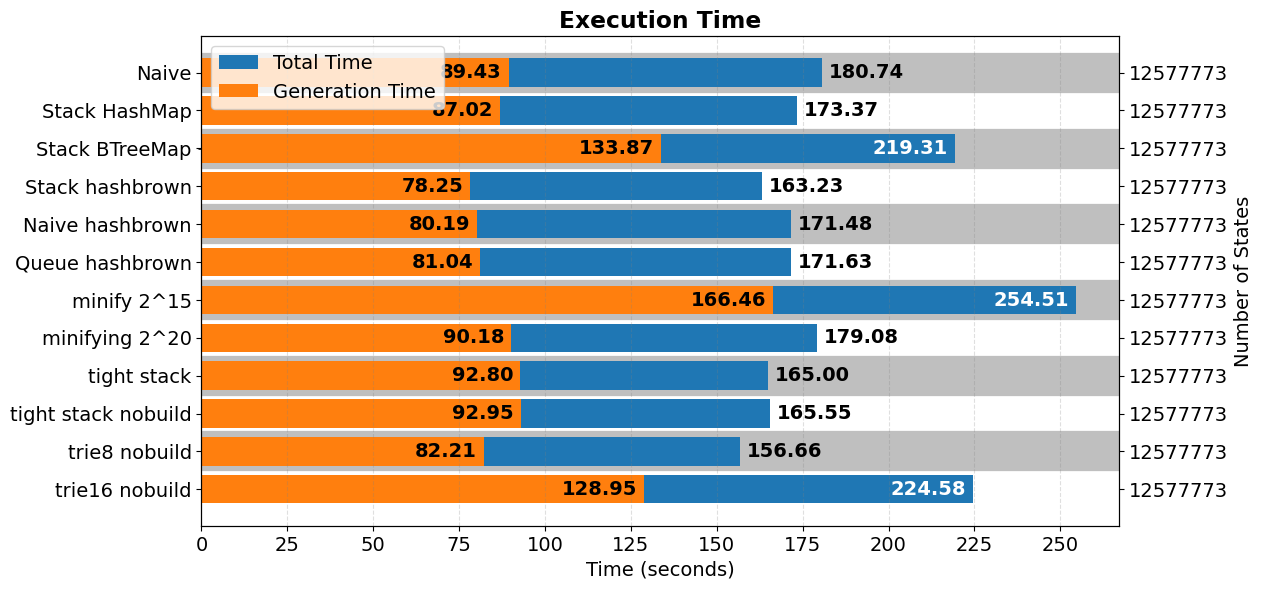
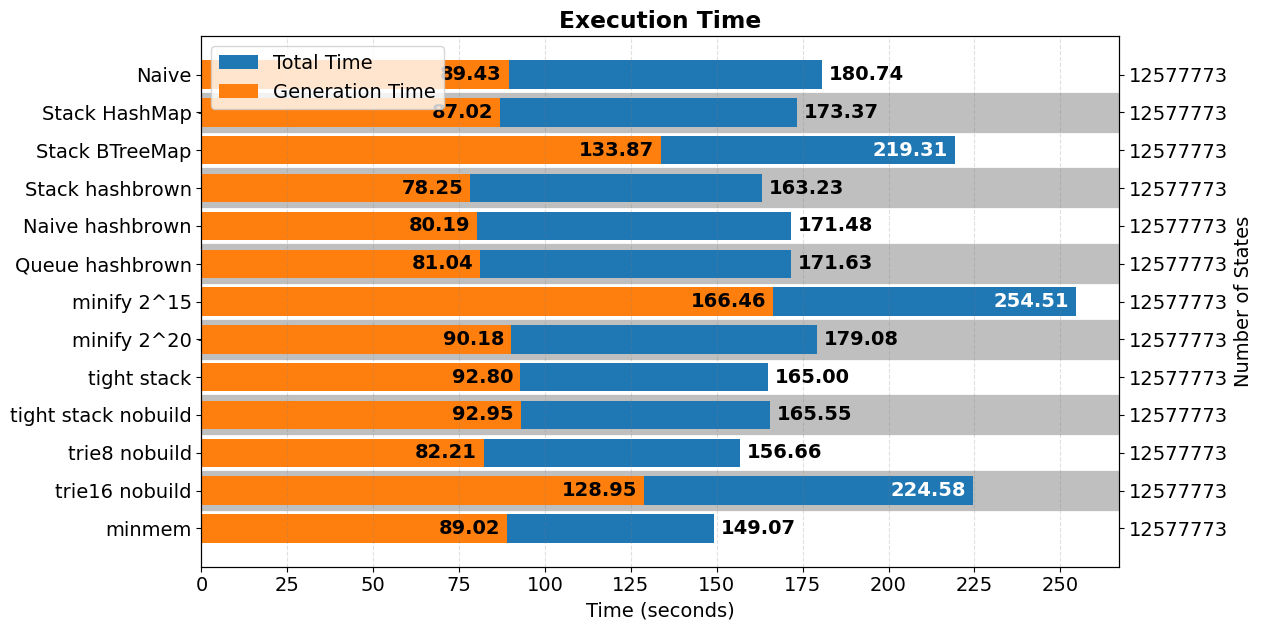
Add minmem benchmark result

diff --git a/results/benchmark/README.md b/results/benchmark/README.md
@@ -22,6 +22,9 @@ All indexers that are present in git commit `58e50ecaf353f79442426d3ee1875b12d4a
 Modifiers;
 - `nobuild` in name denotes that the indexer didn't build the state `Array2` in `deconstruct` call, i.e., indexed states are left in the HashMap.
 
+Added in commit 7bc360ca6af5c255f91976f30bdc13fd8dea3b66:
+- `minmem`: Uses smaller primitive types (e.g. `u8` for cost instead of `f64`, `u8` for bus indices instead of `usize`, etc.). Uses `tight stack` state indexer.
+
 These were tested on `experiments/mem.json`.
 Note that `ArrayStateIndexer` couldn't run the experiment due to horrible complexity (worst case `O(n)` for a single addition where `n` is the explored states).
 
